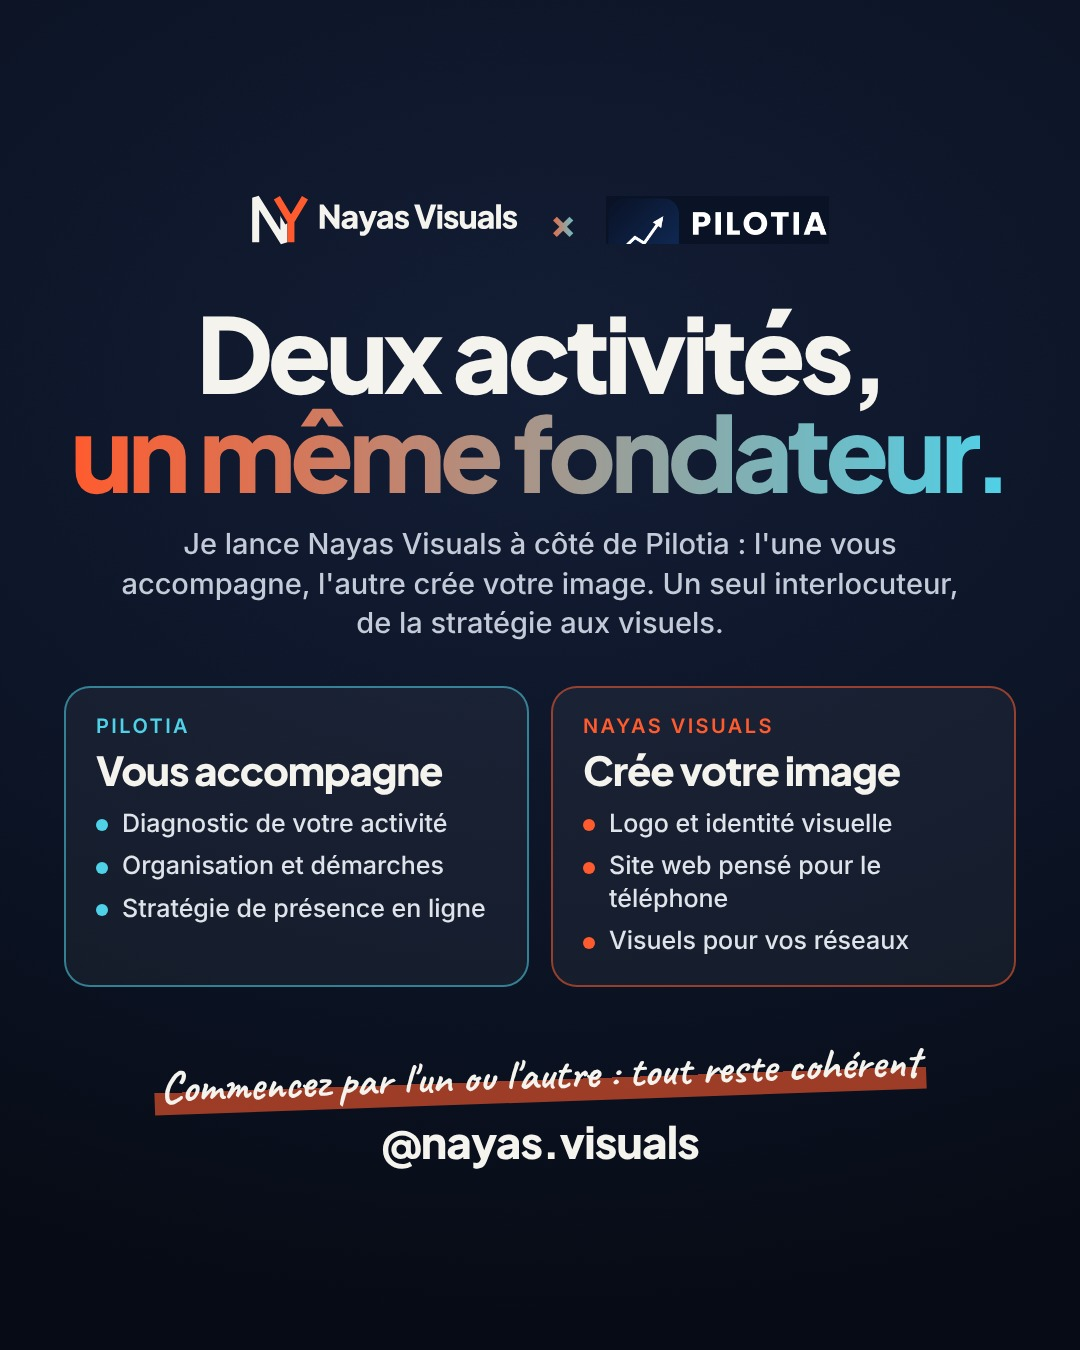
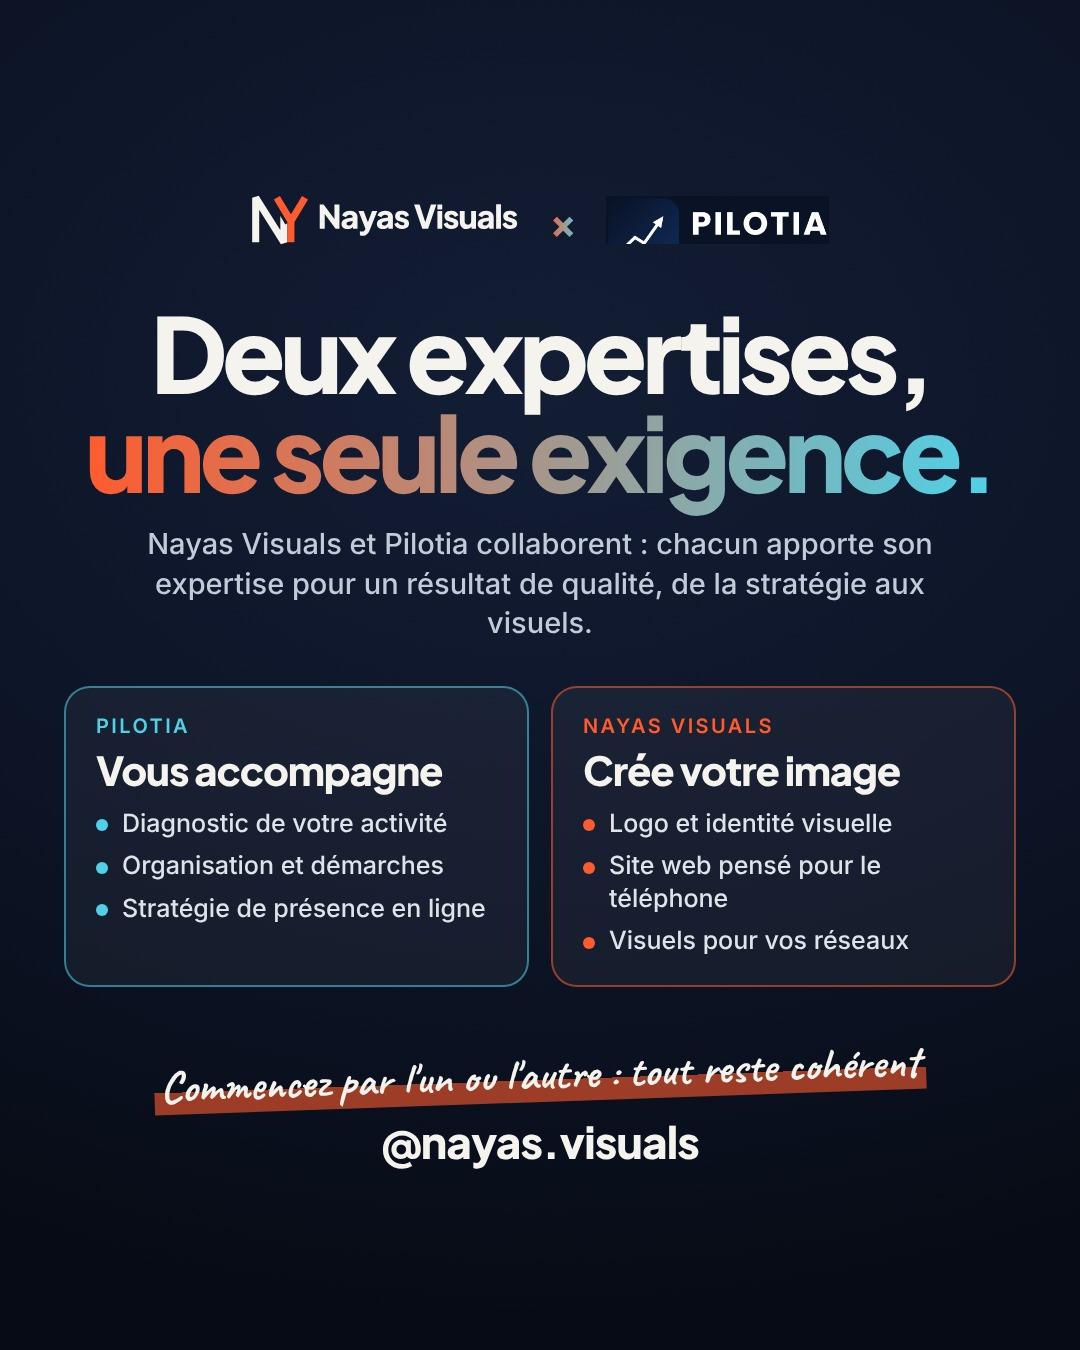
Collaboration Pilotia : message « chacun apporte son expertise », lien Pilotia cliquable, visuels mis à jour, prompt pour la discussion Pilotia
Claude-Session: https://claude.ai/code/session_015xoUz1FX5UVYhToJu1J5Tq

Changed region(s): [[0.0611, 0.2178, 0.9472, 0.4667]]

diff --git a/site/dist/index.html b/site/dist/index.html
@@ -226,11 +226,11 @@
     <div class="wrap">
       <div class="duo" data-reveal>
         <div class="duo-logos"><span class="duo-ny"><svg viewBox="10 14 458.6 92" role="img" aria-label="Nayas Visuals"><defs><mask id="nyv-m4" maskUnits="userSpaceOnUse" x="0" y="0" width="120" height="120"><rect width="120" height="120" fill="#fff"/><path d="M54 22 78 62" stroke="#000" stroke-width="22" fill="none"/></mask></defs>
-  <g fill="none" stroke-linecap="butt" stroke-linejoin="miter" stroke-miterlimit="2" stroke-width="12"><path mask="url(#nyv-m4)" d="M18 98V22l48 76V40" stroke="currentColor"/><path d="M102 22 78 62v36M54 22 78 62" stroke="#FF5B2E"/></g><g transform="translate(126 32) scale(0.5506) translate(-4.6 77.7)"><path fill="currentColor" d="M22.10 0L6.60 0L6.60-74.50L18.50-74.50L52.10-30.20L52.10-74.50L67.60-74.50L67.60 0L55.60 0L22.10-45.30L22.10 0ZM93.10 1.20L93.10 1.20Q87.20 1.20 82.90-0.70Q78.60-2.60 76.30-6.15Q74-9.70 74-14.60L74-14.60Q74-19.20 76.10-22.75Q78.20-26.30 82.55-28.70Q86.90-31.10 93.40-32.10L93.40-32.10L108.50-34.50L108.50-36Q108.50-39.10 106.05-41.20Q103.60-43.30 99.40-43.30L99.40-43.30Q95.40-43.30 92.35-41.10Q89.30-38.90 87.90-35.30L87.90-35.30L75.90-41Q77.50-45.60 81-48.90Q84.50-52.20 89.40-54Q94.30-55.80 100.10-55.80L100.10-55.80Q107-55.80 112.30-53.30Q117.60-50.80 120.55-46.35Q123.50-41.90 123.50-36L123.50-36L123.50 0L109.50 0L109.50-5.20Q108.60-4.20 107.60-3.50L107.60-3.50Q104.70-1.10 101.10 0.05Q97.50 1.20 93.10 1.20ZM108.50-21.80L108.50-23.50L96.10-21.30Q92.90-20.70 91.20-19.25Q89.50-17.80 89.50-15.10L89.50-15.10Q89.50-12.60 91.40-11.20Q93.30-9.80 96.10-9.80L96.10-9.80Q99.80-9.80 102.60-11.40Q105.40-13 106.95-15.75Q108.50-18.50 108.50-21.80L108.50-21.80ZM139.50 22L139.50 22Q137.10 22 134.85 21.60Q132.60 21.20 130.90 20.30L130.90 20.30L130.90 8Q132.30 8.40 134.20 8.70Q136.10 9 137.70 9L137.70 9Q142.10 9 144 6.95Q145.90 4.90 147.10 2.30L147.10 2.30L148.10 0L126.60-54.60L142.70-54.60L155.60-19.50L168.50-54.60L184.60-54.60L161.20 5.10Q159 10.70 155.80 14.50Q152.60 18.30 148.55 20.15Q144.50 22 139.50 22ZM202.60 1.20L202.60 1.20Q196.70 1.20 192.40-0.70Q188.10-2.60 185.80-6.15Q183.50-9.70 183.50-14.60L183.50-14.60Q183.50-19.20 185.60-22.75Q187.70-26.30 192.05-28.70Q196.40-31.10 202.90-32.10L202.90-32.10L218-34.50L218-36Q218-39.10 215.55-41.20Q213.10-43.30 208.90-43.30L208.90-43.30Q204.90-43.30 201.85-41.10Q198.80-38.90 197.40-35.30L197.40-35.30L185.40-41Q187-45.60 190.50-48.90Q194-52.20 198.90-54Q203.80-55.80 209.60-55.80L209.60-55.80Q216.50-55.80 221.80-53.30Q227.10-50.80 230.05-46.35Q233-41.90 233-36L233-36L233 0L219 0L219-5.20Q218.10-4.20 217.10-3.50L217.10-3.50Q214.20-1.10 210.60 0.05Q207 1.20 202.60 1.20ZM218-21.80L218-23.50L205.60-21.30Q202.40-20.70 200.70-19.25Q199-17.80 199-15.10L199-15.10Q199-12.60 200.90-11.20Q202.80-9.80 205.60-9.80L205.60-9.80Q209.30-9.80 212.10-11.40Q214.90-13 216.45-15.75Q218-18.50 218-21.80L218-21.80ZM261.90 1.20L261.90 1.20Q252.90 1.20 246.25-3.05Q239.60-7.30 237.20-14.50L237.20-14.50L248.20-19.70Q250.30-15.30 253.90-12.80Q257.50-10.30 261.90-10.30L261.90-10.30Q265.10-10.30 266.80-11.60Q268.50-12.90 268.50-15.20L268.50-15.20Q268.50-16.40 267.90-17.25Q267.30-18.10 266.10-18.80Q264.90-19.50 263.10-20L263.10-20L253.80-22.60Q247.10-24.50 243.50-28.75Q239.90-33 239.90-38.80L239.90-38.80Q239.90-43.90 242.50-47.70Q245.10-51.50 249.80-53.65Q254.50-55.80 260.60-55.80L260.60-55.80Q268.60-55.80 274.65-52.05Q280.70-48.30 283.20-41.50L283.20-41.50L272.10-36.30Q270.90-39.70 267.75-41.75Q264.60-43.80 260.60-43.80L260.60-43.80Q257.70-43.80 256.05-42.60Q254.40-41.40 254.40-39.30L254.40-39.30Q254.40-38.20 255-37.30Q255.60-36.40 256.95-35.70Q258.30-35 260.30-34.40L260.30-34.40L269-31.80Q275.80-29.80 279.40-25.75Q283-21.70 283-15.80L283-15.80Q283-10.70 280.35-6.90Q277.70-3.10 273-0.95Q268.30 1.20 261.90 1.20ZM342.10 0L324.10 0L298.60-74.50L315.60-74.50L333.10-20L350.60-74.50L367.60-74.50L342.10 0ZM385.70 0L370.70 0L370.70-54.60L385.70-54.60L385.70 0ZM385.70-59.50L370.70-59.50L370.70-74.50L385.70-74.50L385.70-59.50ZM414.60 1.20L414.60 1.20Q405.60 1.20 398.95-3.05Q392.30-7.30 389.90-14.50L389.90-14.50L400.90-19.70Q403-15.30 406.60-12.80Q410.20-10.30 414.60-10.30L414.60-10.30Q417.80-10.30 419.50-11.60Q421.20-12.90 421.20-15.20L421.20-15.20Q421.20-16.40 420.60-17.25Q420-18.10 418.80-18.80Q417.60-19.50 415.80-20L415.80-20L406.50-22.60Q399.80-24.50 396.20-28.75Q392.60-33 392.60-38.80L392.60-38.80Q392.60-43.90 395.20-47.70Q397.80-51.50 402.50-53.65Q407.20-55.80 413.30-55.80L413.30-55.80Q421.30-55.80 427.35-52.05Q433.40-48.30 435.90-41.50L435.90-41.50L424.80-36.30Q423.60-39.70 420.45-41.75Q417.30-43.80 413.30-43.80L413.30-43.80Q410.40-43.80 408.75-42.60Q407.10-41.40 407.10-39.30L407.10-39.30Q407.10-38.20 407.70-37.30Q408.30-36.40 409.65-35.70Q411-35 413-34.40L413-34.40L421.70-31.80Q428.50-29.80 432.10-25.75Q435.70-21.70 435.70-15.80L435.70-15.80Q435.70-10.70 433.05-6.90Q430.40-3.10 425.70-0.95Q421 1.20 414.60 1.20ZM460.80 1.20L460.80 1.20Q454.20 1.20 449.55-1.65Q444.90-4.50 442.50-9.60Q440.10-14.70 440.10-21.50L440.10-21.50L440.10-54.60L455.10-54.60L455.10-22.70Q455.10-19.60 456.35-17.25Q457.60-14.90 459.90-13.60Q462.20-12.30 465.10-12.30L465.10-12.30Q468.10-12.30 470.35-13.60Q472.60-14.90 473.85-17.25Q475.10-19.60 475.10-22.70L475.10-22.70L475.10-54.60L490.10-54.60L490.10 0L476.10 0L476.10-6.60Q474.20-3.10 470.80-1.20L470.80-1.20Q466.50 1.20 460.80 1.20ZM514.50 1.20L514.50 1.20Q508.60 1.20 504.30-0.70Q500-2.60 497.70-6.15Q495.40-9.70 495.40-14.60L495.40-14.60Q495.40-19.20 497.50-22.75Q499.60-26.30 503.95-28.70Q508.30-31.10 514.80-32.10L514.80-32.10L529.90-34.50L529.90-36Q529.90-39.10 527.45-41.20Q525-43.30 520.80-43.30L520.80-43.30Q516.80-43.30 513.75-41.10Q510.70-38.90 509.30-35.30L509.30-35.30L497.30-41Q498.90-45.60 502.40-48.90Q505.90-52.20 510.80-54Q515.70-55.80 521.50-55.80L521.50-55.80Q528.40-55.80 533.70-53.30Q539-50.80 541.95-46.35Q544.90-41.90 544.90-36L544.90-36L544.90 0L530.90 0L530.90-5.20Q530-4.20 529-3.50L529-3.50Q526.10-1.10 522.50 0.05Q518.90 1.20 514.50 1.20ZM529.90-21.80L529.90-23.50L517.50-21.30Q514.30-20.70 512.60-19.25Q510.90-17.80 510.90-15.10L510.90-15.10Q510.90-12.60 512.80-11.20Q514.70-9.80 517.50-9.80L517.50-9.80Q521.20-9.80 524-11.40Q526.80-13 528.35-15.75Q529.90-18.50 529.90-21.80L529.90-21.80ZM567.40 0L552.40 0L552.40-75.70L567.40-75.70L567.40 0ZM596.30 1.20L596.30 1.20Q587.30 1.20 580.65-3.05Q574-7.30 571.60-14.50L571.60-14.50L582.60-19.70Q584.70-15.30 588.30-12.80Q591.90-10.30 596.30-10.30L596.30-10.30Q599.50-10.30 601.20-11.60Q602.90-12.90 602.90-15.20L602.90-15.20Q602.90-16.40 602.30-17.25Q601.70-18.10 600.50-18.80Q599.30-19.50 597.50-20L597.50-20L588.20-22.60Q581.50-24.50 577.90-28.75Q574.30-33 574.30-38.80L574.30-38.80Q574.30-43.90 576.90-47.70Q579.50-51.50 584.20-53.65Q588.90-55.80 595-55.80L595-55.80Q603-55.80 609.05-52.05Q615.10-48.30 617.60-41.50L617.60-41.50L606.50-36.30Q605.30-39.70 602.15-41.75Q599-43.80 595-43.80L595-43.80Q592.10-43.80 590.45-42.60Q588.80-41.40 588.80-39.30L588.80-39.30Q588.80-38.20 589.40-37.30Q590-36.40 591.35-35.70Q592.70-35 594.70-34.40L594.70-34.40L603.40-31.80Q610.20-29.80 613.80-25.75Q617.40-21.70 617.40-15.80L617.40-15.80Q617.40-10.70 614.75-6.90Q612.10-3.10 607.40-0.95Q602.70 1.20 596.30 1.20Z"/></g></svg></span><span class="duo-x" aria-hidden="true">×</span><img src="img/pilotia-logo-clair.png" alt="Pilotia" width="1668" height="364"></div>
+  <g fill="none" stroke-linecap="butt" stroke-linejoin="miter" stroke-miterlimit="2" stroke-width="12"><path mask="url(#nyv-m4)" d="M18 98V22l48 76V40" stroke="currentColor"/><path d="M102 22 78 62v36M54 22 78 62" stroke="#FF5B2E"/></g><g transform="translate(126 32) scale(0.5506) translate(-4.6 77.7)"><path fill="currentColor" d="M22.10 0L6.60 0L6.60-74.50L18.50-74.50L52.10-30.20L52.10-74.50L67.60-74.50L67.60 0L55.60 0L22.10-45.30L22.10 0ZM93.10 1.20L93.10 1.20Q87.20 1.20 82.90-0.70Q78.60-2.60 76.30-6.15Q74-9.70 74-14.60L74-14.60Q74-19.20 76.10-22.75Q78.20-26.30 82.55-28.70Q86.90-31.10 93.40-32.10L93.40-32.10L108.50-34.50L108.50-36Q108.50-39.10 106.05-41.20Q103.60-43.30 99.40-43.30L99.40-43.30Q95.40-43.30 92.35-41.10Q89.30-38.90 87.90-35.30L87.90-35.30L75.90-41Q77.50-45.60 81-48.90Q84.50-52.20 89.40-54Q94.30-55.80 100.10-55.80L100.10-55.80Q107-55.80 112.30-53.30Q117.60-50.80 120.55-46.35Q123.50-41.90 123.50-36L123.50-36L123.50 0L109.50 0L109.50-5.20Q108.60-4.20 107.60-3.50L107.60-3.50Q104.70-1.10 101.10 0.05Q97.50 1.20 93.10 1.20ZM108.50-21.80L108.50-23.50L96.10-21.30Q92.90-20.70 91.20-19.25Q89.50-17.80 89.50-15.10L89.50-15.10Q89.50-12.60 91.40-11.20Q93.30-9.80 96.10-9.80L96.10-9.80Q99.80-9.80 102.60-11.40Q105.40-13 106.95-15.75Q108.50-18.50 108.50-21.80L108.50-21.80ZM139.50 22L139.50 22Q137.10 22 134.85 21.60Q132.60 21.20 130.90 20.30L130.90 20.30L130.90 8Q132.30 8.40 134.20 8.70Q136.10 9 137.70 9L137.70 9Q142.10 9 144 6.95Q145.90 4.90 147.10 2.30L147.10 2.30L148.10 0L126.60-54.60L142.70-54.60L155.60-19.50L168.50-54.60L184.60-54.60L161.20 5.10Q159 10.70 155.80 14.50Q152.60 18.30 148.55 20.15Q144.50 22 139.50 22ZM202.60 1.20L202.60 1.20Q196.70 1.20 192.40-0.70Q188.10-2.60 185.80-6.15Q183.50-9.70 183.50-14.60L183.50-14.60Q183.50-19.20 185.60-22.75Q187.70-26.30 192.05-28.70Q196.40-31.10 202.90-32.10L202.90-32.10L218-34.50L218-36Q218-39.10 215.55-41.20Q213.10-43.30 208.90-43.30L208.90-43.30Q204.90-43.30 201.85-41.10Q198.80-38.90 197.40-35.30L197.40-35.30L185.40-41Q187-45.60 190.50-48.90Q194-52.20 198.90-54Q203.80-55.80 209.60-55.80L209.60-55.80Q216.50-55.80 221.80-53.30Q227.10-50.80 230.05-46.35Q233-41.90 233-36L233-36L233 0L219 0L219-5.20Q218.10-4.20 217.10-3.50L217.10-3.50Q214.20-1.10 210.60 0.05Q207 1.20 202.60 1.20ZM218-21.80L218-23.50L205.60-21.30Q202.40-20.70 200.70-19.25Q199-17.80 199-15.10L199-15.10Q199-12.60 200.90-11.20Q202.80-9.80 205.60-9.80L205.60-9.80Q209.30-9.80 212.10-11.40Q214.90-13 216.45-15.75Q218-18.50 218-21.80L218-21.80ZM261.90 1.20L261.90 1.20Q252.90 1.20 246.25-3.05Q239.60-7.30 237.20-14.50L237.20-14.50L248.20-19.70Q250.30-15.30 253.90-12.80Q257.50-10.30 261.90-10.30L261.90-10.30Q265.10-10.30 266.80-11.60Q268.50-12.90 268.50-15.20L268.50-15.20Q268.50-16.40 267.90-17.25Q267.30-18.10 266.10-18.80Q264.90-19.50 263.10-20L263.10-20L253.80-22.60Q247.10-24.50 243.50-28.75Q239.90-33 239.90-38.80L239.90-38.80Q239.90-43.90 242.50-47.70Q245.10-51.50 249.80-53.65Q254.50-55.80 260.60-55.80L260.60-55.80Q268.60-55.80 274.65-52.05Q280.70-48.30 283.20-41.50L283.20-41.50L272.10-36.30Q270.90-39.70 267.75-41.75Q264.60-43.80 260.60-43.80L260.60-43.80Q257.70-43.80 256.05-42.60Q254.40-41.40 254.40-39.30L254.40-39.30Q254.40-38.20 255-37.30Q255.60-36.40 256.95-35.70Q258.30-35 260.30-34.40L260.30-34.40L269-31.80Q275.80-29.80 279.40-25.75Q283-21.70 283-15.80L283-15.80Q283-10.70 280.35-6.90Q277.70-3.10 273-0.95Q268.30 1.20 261.90 1.20ZM342.10 0L324.10 0L298.60-74.50L315.60-74.50L333.10-20L350.60-74.50L367.60-74.50L342.10 0ZM385.70 0L370.70 0L370.70-54.60L385.70-54.60L385.70 0ZM385.70-59.50L370.70-59.50L370.70-74.50L385.70-74.50L385.70-59.50ZM414.60 1.20L414.60 1.20Q405.60 1.20 398.95-3.05Q392.30-7.30 389.90-14.50L389.90-14.50L400.90-19.70Q403-15.30 406.60-12.80Q410.20-10.30 414.60-10.30L414.60-10.30Q417.80-10.30 419.50-11.60Q421.20-12.90 421.20-15.20L421.20-15.20Q421.20-16.40 420.60-17.25Q420-18.10 418.80-18.80Q417.60-19.50 415.80-20L415.80-20L406.50-22.60Q399.80-24.50 396.20-28.75Q392.60-33 392.60-38.80L392.60-38.80Q392.60-43.90 395.20-47.70Q397.80-51.50 402.50-53.65Q407.20-55.80 413.30-55.80L413.30-55.80Q421.30-55.80 427.35-52.05Q433.40-48.30 435.90-41.50L435.90-41.50L424.80-36.30Q423.60-39.70 420.45-41.75Q417.30-43.80 413.30-43.80L413.30-43.80Q410.40-43.80 408.75-42.60Q407.10-41.40 407.10-39.30L407.10-39.30Q407.10-38.20 407.70-37.30Q408.30-36.40 409.65-35.70Q411-35 413-34.40L413-34.40L421.70-31.80Q428.50-29.80 432.10-25.75Q435.70-21.70 435.70-15.80L435.70-15.80Q435.70-10.70 433.05-6.90Q430.40-3.10 425.70-0.95Q421 1.20 414.60 1.20ZM460.80 1.20L460.80 1.20Q454.20 1.20 449.55-1.65Q444.90-4.50 442.50-9.60Q440.10-14.70 440.10-21.50L440.10-21.50L440.10-54.60L455.10-54.60L455.10-22.70Q455.10-19.60 456.35-17.25Q457.60-14.90 459.90-13.60Q462.20-12.30 465.10-12.30L465.10-12.30Q468.10-12.30 470.35-13.60Q472.60-14.90 473.85-17.25Q475.10-19.60 475.10-22.70L475.10-22.70L475.10-54.60L490.10-54.60L490.10 0L476.10 0L476.10-6.60Q474.20-3.10 470.80-1.20L470.80-1.20Q466.50 1.20 460.80 1.20ZM514.50 1.20L514.50 1.20Q508.60 1.20 504.30-0.70Q500-2.60 497.70-6.15Q495.40-9.70 495.40-14.60L495.40-14.60Q495.40-19.20 497.50-22.75Q499.60-26.30 503.95-28.70Q508.30-31.10 514.80-32.10L514.80-32.10L529.90-34.50L529.90-36Q529.90-39.10 527.45-41.20Q525-43.30 520.80-43.30L520.80-43.30Q516.80-43.30 513.75-41.10Q510.70-38.90 509.30-35.30L509.30-35.30L497.30-41Q498.90-45.60 502.40-48.90Q505.90-52.20 510.80-54Q515.70-55.80 521.50-55.80L521.50-55.80Q528.40-55.80 533.70-53.30Q539-50.80 541.95-46.35Q544.90-41.90 544.90-36L544.90-36L544.90 0L530.90 0L530.90-5.20Q530-4.20 529-3.50L529-3.50Q526.10-1.10 522.50 0.05Q518.90 1.20 514.50 1.20ZM529.90-21.80L529.90-23.50L517.50-21.30Q514.30-20.70 512.60-19.25Q510.90-17.80 510.90-15.10L510.90-15.10Q510.90-12.60 512.80-11.20Q514.70-9.80 517.50-9.80L517.50-9.80Q521.20-9.80 524-11.40Q526.80-13 528.35-15.75Q529.90-18.50 529.90-21.80L529.90-21.80ZM567.40 0L552.40 0L552.40-75.70L567.40-75.70L567.40 0ZM596.30 1.20L596.30 1.20Q587.30 1.20 580.65-3.05Q574-7.30 571.60-14.50L571.60-14.50L582.60-19.70Q584.70-15.30 588.30-12.80Q591.90-10.30 596.30-10.30L596.30-10.30Q599.50-10.30 601.20-11.60Q602.90-12.90 602.90-15.20L602.90-15.20Q602.90-16.40 602.30-17.25Q601.70-18.10 600.50-18.80Q599.30-19.50 597.50-20L597.50-20L588.20-22.60Q581.50-24.50 577.90-28.75Q574.30-33 574.30-38.80L574.30-38.80Q574.30-43.90 576.90-47.70Q579.50-51.50 584.20-53.65Q588.90-55.80 595-55.80L595-55.80Q603-55.80 609.05-52.05Q615.10-48.30 617.60-41.50L617.60-41.50L606.50-36.30Q605.30-39.70 602.15-41.75Q599-43.80 595-43.80L595-43.80Q592.10-43.80 590.45-42.60Q588.80-41.40 588.80-39.30L588.80-39.30Q588.80-38.20 589.40-37.30Q590-36.40 591.35-35.70Q592.70-35 594.70-34.40L594.70-34.40L603.40-31.80Q610.20-29.80 613.80-25.75Q617.40-21.70 617.40-15.80L617.40-15.80Q617.40-10.70 614.75-6.90Q612.10-3.10 607.40-0.95Q602.70 1.20 596.30 1.20Z"/></g></svg></span><span class="duo-x" aria-hidden="true">×</span><a href="https://pilotia-git-accueil-epure-nassaaxs-projects.vercel.app/index.html" target="_blank" rel="noopener" aria-label="Pilotia"><img src="img/pilotia-logo-clair.png" alt="Pilotia" width="1668" height="364"></a></div>
         <div>
-          <p class="kicker">Ensemble</p>
+          <p class="kicker">Collaboration</p>
           <h2 class="h2" id="t-pilotia">Nayas Visuals × Pilotia</h2>
-          <p class="lead">Deux activités, un même fondateur. <strong>Pilotia</strong> accompagne les indépendants et les petites entreprises (diagnostic, organisation, démarches, présence en ligne). <strong>Nayas Visuals</strong> crée leur image : logo, site, visuels. Vous pouvez commencer par l'un ou l'autre, tout reste cohérent.</p>
+          <p class="lead"><a class="duo-link" href="https://pilotia-git-accueil-epure-nassaaxs-projects.vercel.app/index.html" target="_blank" rel="noopener">Pilotia</a> accompagne les indépendants et les petites entreprises (diagnostic, organisation, démarches, présence en ligne). <strong>Nayas Visuals</strong> crée leur image : logo, site, visuels. Chacun apporte son expertise pour un résultat de qualité, de la stratégie aux visuels.</p>
           <p style="margin-top:28px"><a class="btn " href="https://pilotia-git-accueil-epure-nassaaxs-projects.vercel.app/index.html" target="_blank" rel="noopener"><span class="btn-label"><span data-t="Découvrir Pilotia">Découvrir Pilotia</span></span><span class="btn-arrow"><svg viewBox="0 0 24 24" aria-hidden="true" fill="none" stroke="currentColor" stroke-width="1.8" stroke-linecap="round" stroke-linejoin="round" ><path d="M5 12h14M13 6l6 6-6 6"/></svg><svg viewBox="0 0 24 24" aria-hidden="true" fill="none" stroke="currentColor" stroke-width="1.8" stroke-linecap="round" stroke-linejoin="round" ><path d="M5 12h14M13 6l6 6-6 6"/></svg></span></a></p>
         </div>
       </div>

diff --git a/site/dist/sw.js b/site/dist/sw.js
@@ -1,5 +1,5 @@
 // Hors ligne de base : pages réseau d'abord, fichiers statiques en cache.
-const V='nyv-mwqoxfx1';
+const V='nyv-mwqp4igt';
 const CORE=['./','index.html','styles.css','app.js','fonts/jakarta-800.woff2','fonts/inter-400.woff2','icone-192.png'];
 self.addEventListener('install',e=>{e.waitUntil(caches.open(V).then(c=>c.addAll(CORE)).then(()=>self.skipWaiting()))});
 self.addEventListener('activate',e=>{e.waitUntil(caches.keys().then(k=>Promise.all(k.filter(x=>x!==V).map(x=>caches.delete(x)))).then(()=>self.clients.claim()))});

diff --git a/site/dist/styles.css b/site/dist/styles.css
@@ -433,3 +433,5 @@ dialog[open]{animation:pop .45s var(--ease)}
 .duo-ny svg{height:44px;width:auto}
 .duo-x{font:800 34px/1 var(--display);color:var(--accent)}
 .duo-logos img{height:40px;width:auto}
+.duo .duo-link{color:var(--paper);font-weight:600;text-decoration:underline;text-decoration-color:#4FD1E8;text-underline-offset:4px}
+.duo-logos a{display:block}

diff --git a/site/src/styles.css b/site/src/styles.css
@@ -433,3 +433,5 @@ dialog[open]{animation:pop .45s var(--ease)}
 .duo-ny svg{height:44px;width:auto}
 .duo-x{font:800 34px/1 var(--display);color:var(--accent)}
 .duo-logos img{height:40px;width:auto}
+.duo .duo-link{color:var(--paper);font-weight:600;text-decoration:underline;text-decoration-color:#4FD1E8;text-underline-offset:4px}
+.duo-logos a{display:block}

diff --git a/marketing/duo-pilotia/prompt-pilotia.md b/marketing/duo-pilotia/prompt-pilotia.md
@@ -1,0 +1,22 @@
+# Prompt à coller dans la discussion Pilotia
+
+Ajoute la collaboration entre Pilotia et Nayas Visuals.
+
+Contexte : Nayas Visuals est un studio de création visuelle (logo et identité visuelle, site web pensé pour le téléphone, visuels pour les réseaux sociaux). Pilotia accompagne les entrepreneurs (diagnostic, organisation, démarches, stratégie de présence en ligne) ; pour la création, Pilotia collabore avec Nayas Visuals. Message à faire passer : chacun apporte son expertise pour un résultat de qualité, de la stratégie jusqu'aux fichiers prêts à publier.
+
+Déjà fait (branche `accueil-epure`, commence par récupérer la dernière version de cette branche) :
+- `marketing-digital.html` : section « Logo, site web, visuels : la création avec Nayas Visuals » (id `creation-nayas-visuals`), avec le logo Nayas Visuals (`img/nayas-visuals-logo.svg` sur fond clair, `img/nayas-visuals-logo-fonce.svg` sur fond sombre, classes `brand-logo-light` / `brand-logo-dark`) et un bouton vers Instagram.
+
+À faire :
+1. Mentionner la collaboration aux autres endroits pertinents, sans surcharger : la page des offres (là où la présence digitale est présentée), le pied de page (une ligne discrète « Création digitale en collaboration avec Nayas Visuals », avec le logo si la place le permet), et la carte « Présence digitale » de l'accueil si elle existe.
+2. Chaque fois que Nayas Visuals est cité, mettre son logo (fichiers ci-dessus) ou au minimum un lien.
+3. Lien à utiliser : https://www.instagram.com/nayas.visuals/ (le site de Nayas Visuals n'a pas encore son adresse définitive : je te donnerai le lien plus tard).
+4. Préparer un visuel Instagram pour Pilotia annonçant la collaboration, dans la charte sociale de Pilotia (`brand/charte-social.md`, `brand/social.css`), avec le logo Nayas Visuals.
+5. Noter cette collaboration et ces règles dans la mémoire du projet (README ou CLAUDE.md).
+
+Règles de rédaction :
+- Parler de collaboration et d'expertise de chacun (« chacun apporte son expertise pour un résultat de qualité »).
+- Ne pas écrire que c'est le même fondateur, et ne pas inventer de chiffres, d'avis, ni de projets réalisés ensemble.
+- Couleurs : garder la charte Pilotia ; l'orange de Nayas Visuals (#FF5B2E) seulement dans son logo.
+
+Teste dans un vrai navigateur (ordinateur et mobile 390 px, aucune erreur, pas de défilement horizontal), envoie-moi les captures, et dis-moi en une phrase ce qui change avant d'enregistrer sur GitHub.

diff --git a/CLAUDE.md b/CLAUDE.md
@@ -79,9 +79,9 @@ Skills : `motionsites-web-builder` pour design et mouvement ; `logo-design` pour
 - `marketing/entraide/` : visuel « Partage de compte » (entraide Instagram), publication 4:5 et story 9:16, aux couleurs du studio. Pas de marques ou d'univers d'autrui (ex. GTA) dans nos visuels. `node marketing/entraide/build.mjs`.
 
 ## Nayas Visuals × Pilotia (synergie)
-- **Pilotia est aussi une activité de Nasser** (confirmé le 21/11/2026). On communique « **deux activités, un même fondateur** » / « travaillent main dans la main » ; **jamais** « partenaire » au sens d'une entreprise indépendante (ce serait trompeur).
+- Pilotia est aussi une activité de Nasser. **Choix de Nasser (21/11/2026)** : on présente une **collaboration où chacun apporte son expertise** pour une qualité maximale. **Ne pas écrire « même fondateur »**, mais ne jamais non plus prétendre que ce sont des entreprises sans lien (pas de faux « partenaire indépendant »).
 - Rôles : **Pilotia accompagne** (diagnostic, organisation, démarches, stratégie de présence en ligne) ; **Nayas Visuals crée** (logo, site, visuels). Couleurs : orange Nayas #FF5B2E + cyan Pilotia #4FD1E8.
-- En place : bloc « Nayas Visuals × Pilotia » sur le site (`partenaire` dans `config/studio.json`), visuels Instagram `marketing/duo-pilotia/` (publication + story), section « Création avec Nayas Visuals » sur la page Présence digitale de Pilotia (dépôt `Nassaax/pilotia`, branche `accueil-epure`).
+- En place : bloc « Nayas Visuals × Pilotia » sur le site (`partenaire` dans `config/studio.json`), visuels Instagram `marketing/duo-pilotia/` (publication + story), section « Création avec Nayas Visuals » avec le logo Nayas sur la page Présence digitale de Pilotia (dépôt `Nassaax/pilotia`, branche `accueil-epure`, fichiers `img/nayas-visuals-logo*.svg`). Lien vers le site Nayas à ajouter quand Nasser le donne (pour l'instant : Instagram). Sur le site Nayas, chaque mention de Pilotia renvoie vers Pilotia.
 
 ## Lancer un nouveau client (phrase clé)
 - **« Nouveau client : [nom] »** (ou `/nouveau-client [nom]`) lance la procédure : suivre `.claude/skills/nouveau-client/SKILL.md` et `documents/procedure-client.md`.
